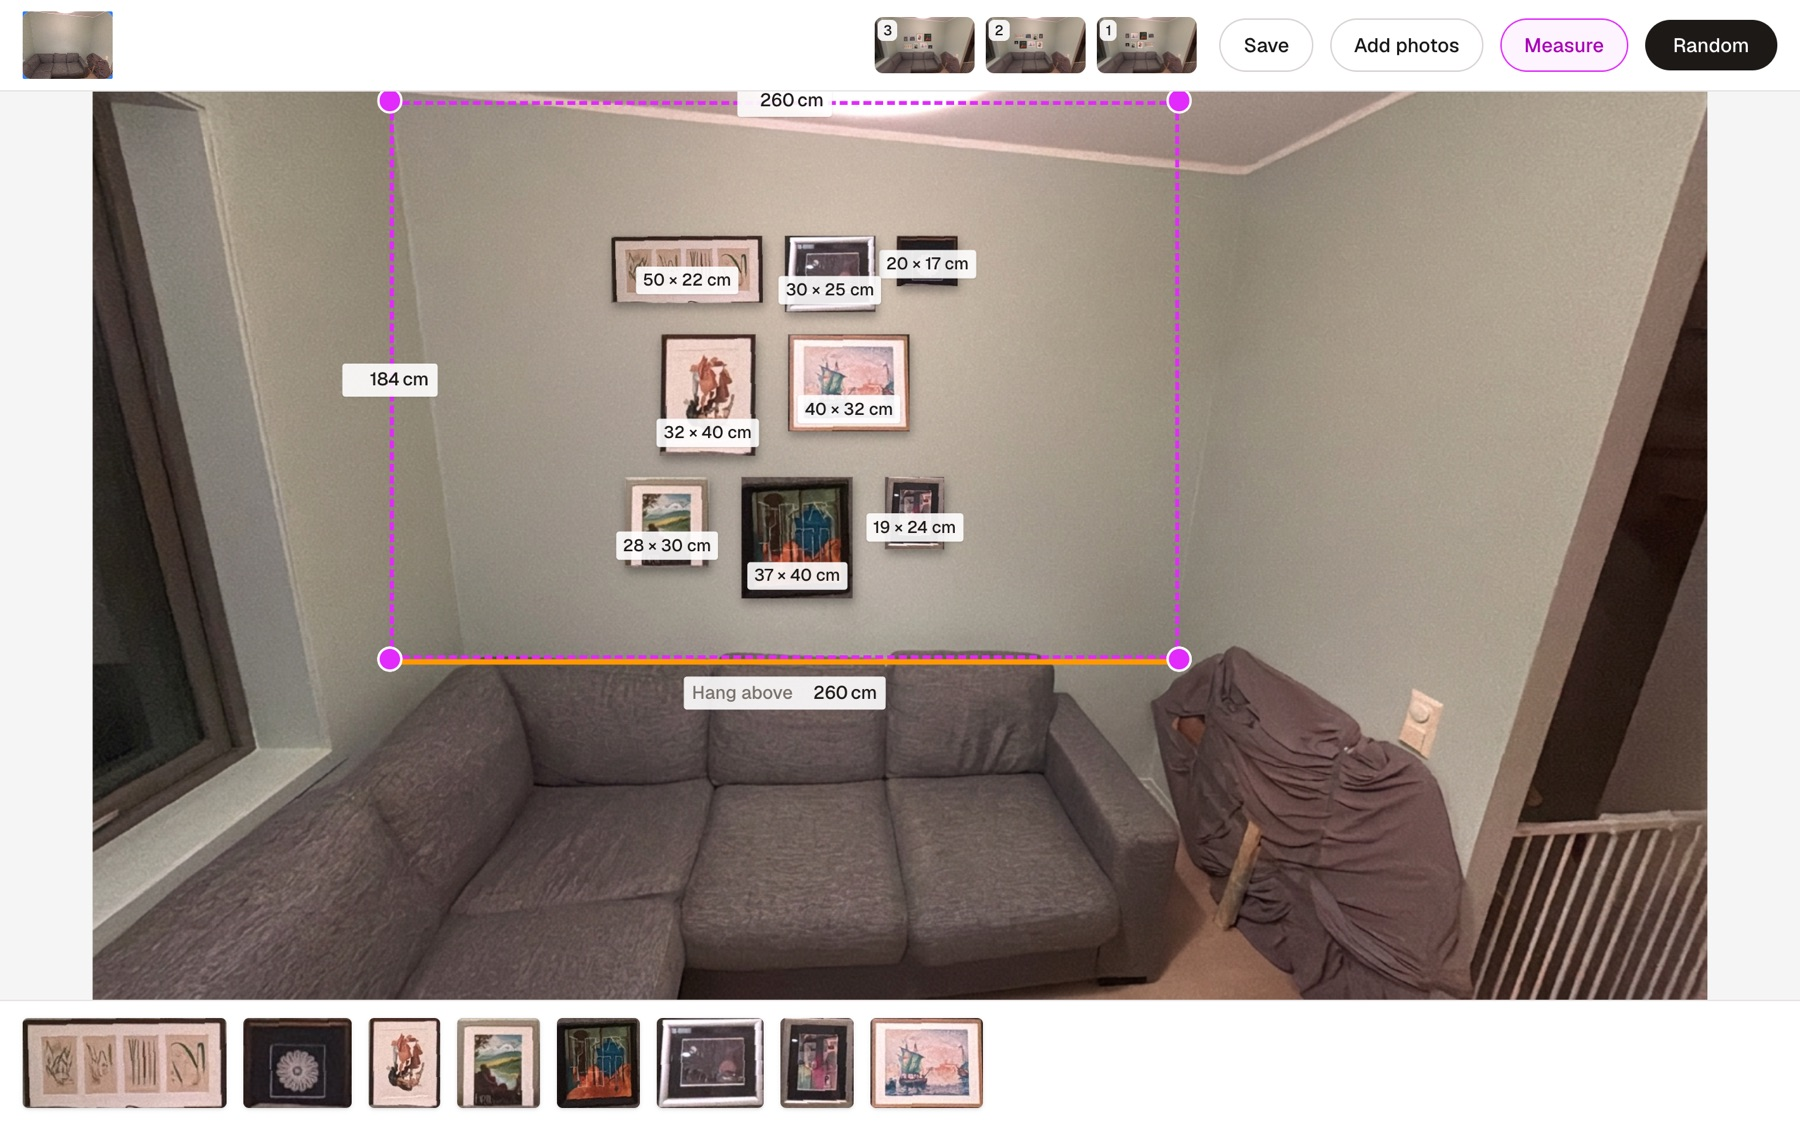
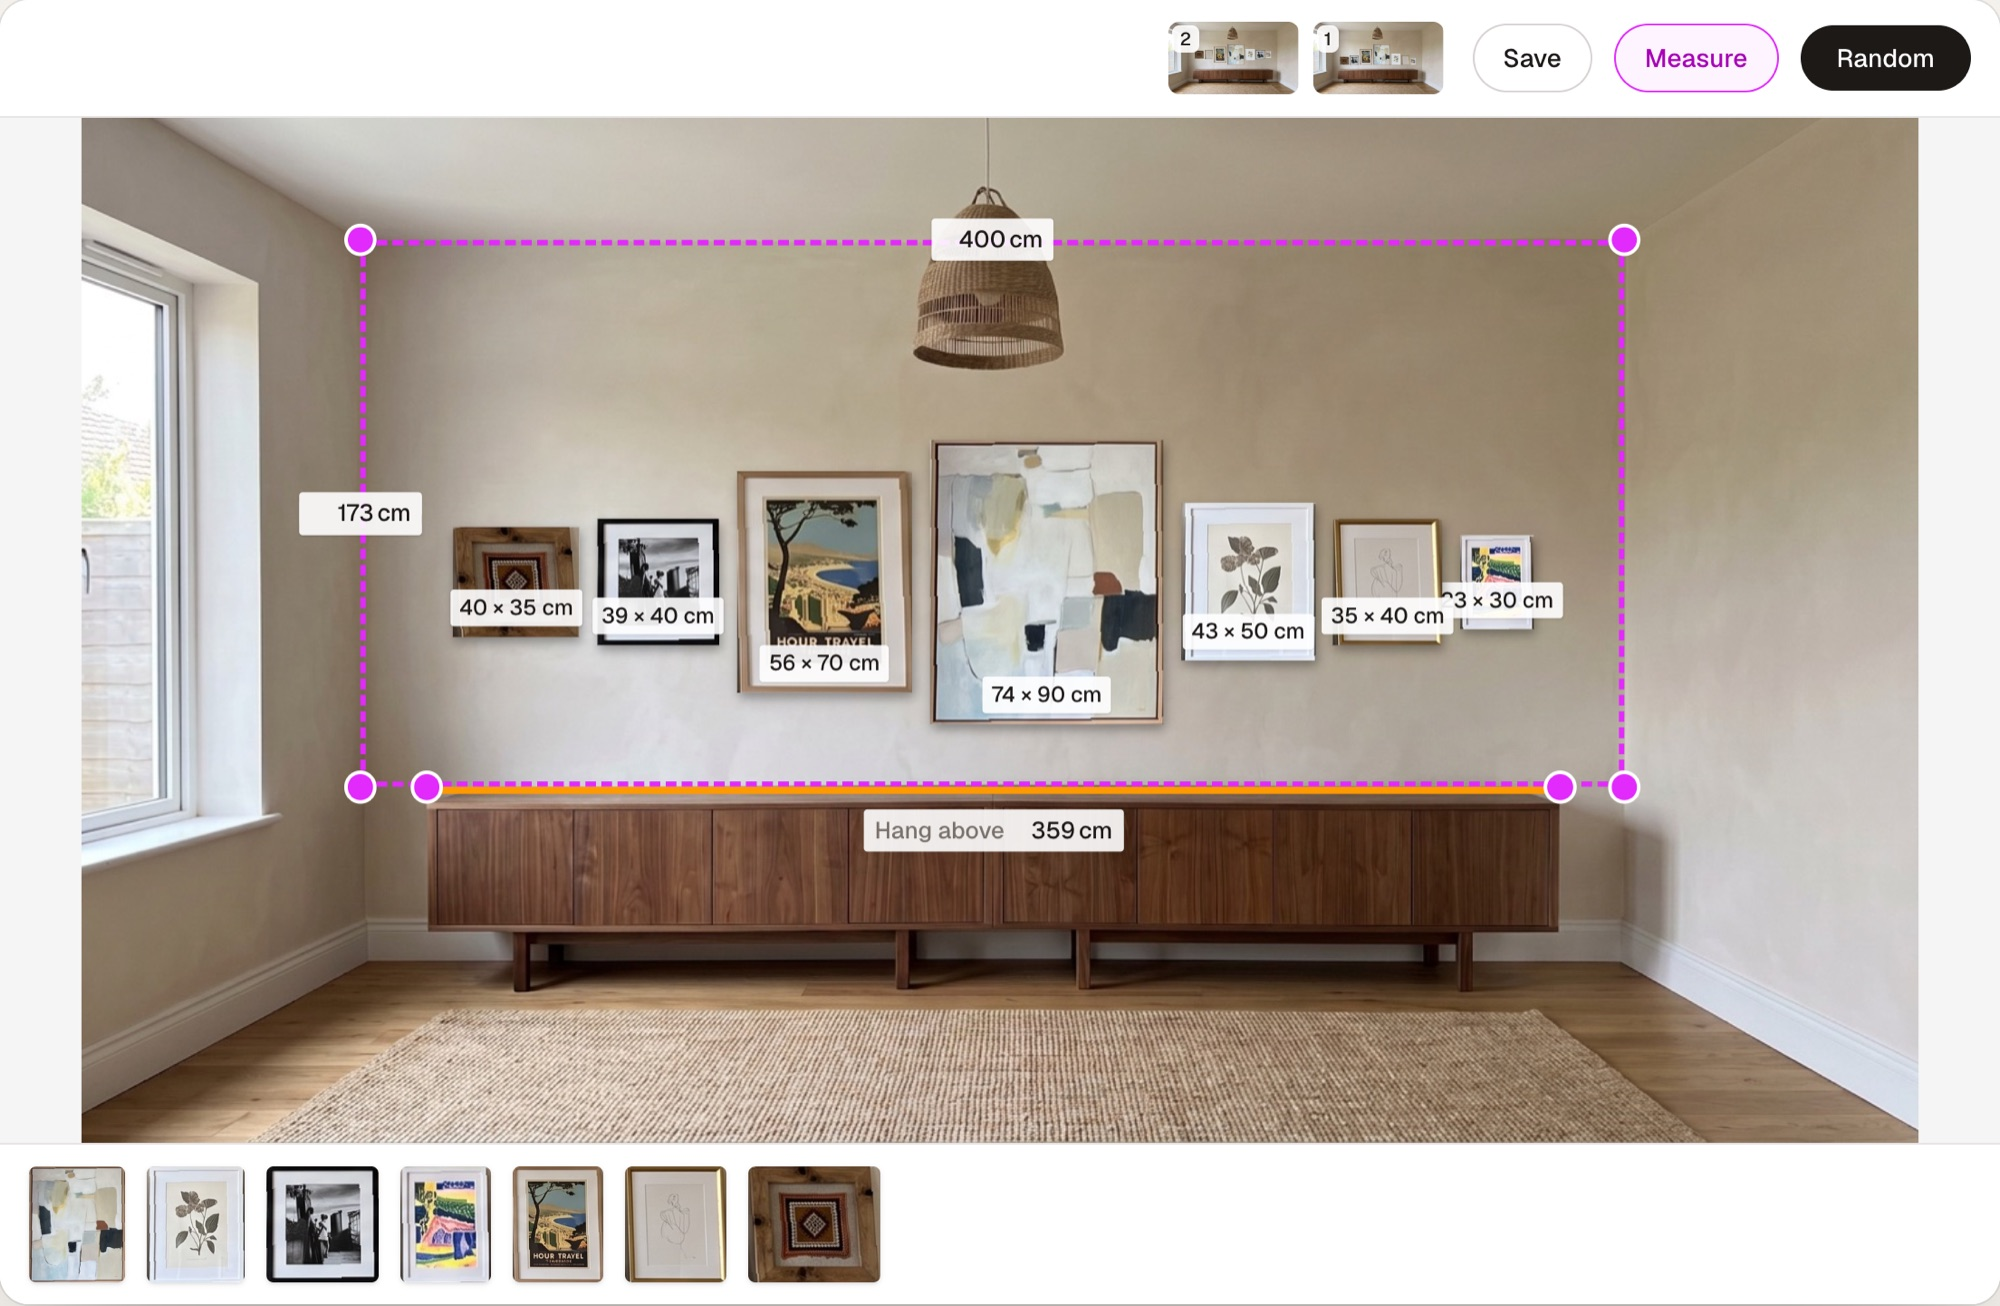
Show a staged example room on the landing page with a live demo
The landing page used photos of our own living room. A generated dining room
is now run through the real analysis and cleanup once and stored as the
example, and every image on the page comes from it. Visitors can try the
planner on it right below the hero without uploading.

Prices drop to $3 per wall, with a $10 whole-home pack for up to 10 walls.

diff --git a/src/app/page.tsx b/src/app/page.tsx
@@ -2,22 +2,24 @@ import Image from "next/image";
 import Link from "next/link";
 import type { ReactNode } from "react";
 import { BeforeAfter } from "@/components/landing/before-after";
+import { Planner } from "@/components/planner";
+import { example } from "@/assets/example/example";
 import after from "@/assets/landing/after.jpg";
 import appMeasure from "@/assets/landing/app-measure.jpg";
-import before from "@/assets/landing/before.jpg";
-import clean from "@/assets/landing/clean.jpg";
-import piece0 from "@/assets/landing/piece-0.jpg";
-import piece2 from "@/assets/landing/piece-2.jpg";
-import piece4 from "@/assets/landing/piece-4.jpg";
-import piece6 from "@/assets/landing/piece-6.jpg";
-import piece7 from "@/assets/landing/piece-7.jpg";
+import before from "@/assets/example/room.jpg";
+import clean from "@/assets/example/clean.jpg";
+import botanical from "@/assets/landing/piece-1.jpg";
+import photograph from "@/assets/landing/piece-2.jpg";
+import print from "@/assets/landing/piece-3.jpg";
+import poster from "@/assets/landing/piece-4.jpg";
+import textile from "@/assets/landing/piece-6.jpg";
 
 // Priced per wall, since most people plan one wall at a time. Prices are placeholders until payments are in place.
 const plans = [
   {
     name: "One wall",
-    price: "$9",
-    featured: true,
+    price: "$3",
+    featured: false,
     items: [
       "Photos of as much art as you like",
       "Unlimited layouts",
@@ -28,11 +30,11 @@ const plans = [
     ],
   },
   {
-    name: "Three walls",
-    price: "$19",
+    name: "Whole home",
+    price: "$10",
     tag: "Moving in?",
-    featured: false,
-    items: ["Everything in One wall, for three walls", "Use them whenever you like", "Move art between walls"],
+    featured: true,
+    items: ["Everything in One wall", "Up to 10 walls, whenever you like", "Move art between walls"],
   },
 ];
 
@@ -69,9 +71,9 @@ function Logo() {
 const steps = [
   {
     title: "Snap your wall",
-    body: "Art leaning on the sofa is fine. Add photos of art from anywhere else in the house.",
+    body: "Leaning on a sideboard or the floor is fine. Add photos of art from anywhere else in the house.",
     image: before,
-    alt: "Photo of a wall with art leaning on the sofa",
+    alt: "A dining room with framed art leaning on the sideboard",
   },
   {
     title: "We clear the wall",
@@ -83,7 +85,7 @@ const steps = [
     title: "Shuffle until it clicks",
     body: "A new layout with every tap. Save the ones you like and flip between them.",
     image: after,
-    alt: "The art arranged on the wall above the sofa",
+    alt: "The art arranged on the wall above the sideboard",
   },
 ];
 
@@ -127,6 +129,9 @@ export default function Landing() {
       <header className="mx-auto flex max-w-6xl items-center justify-between px-6 py-5">
         <Logo />
         <nav className="flex items-center gap-8 text-sm text-stone-600">
+          <a href="#try" className="hidden hover:text-stone-900 sm:block">
+            Try it
+          </a>
           <a href="#how" className="hidden hover:text-stone-900 sm:block">
             How it works
           </a>
@@ -150,10 +155,20 @@ export default function Landing() {
             </p>
             <div className="mt-9 flex flex-wrap items-center gap-x-5 gap-y-3">
               <Cta />
-              <span className="text-sm text-stone-500">{plans[0].price} per wall · No subscription</span>
+              <span className="text-sm text-stone-500">From {plans[0].price} per wall · No subscription</span>
             </div>
           </div>
           <BeforeAfter before={before} after={after} />
+        </section>
+
+        <section id="try" className="mx-auto max-w-6xl scroll-mt-6 px-6 pb-24">
+          <div className="flex flex-wrap items-end justify-between gap-x-6 gap-y-2">
+            <h2 className="font-serif text-4xl tracking-tight sm:text-5xl">Try it on our wall</h2>
+            <p className="text-stone-500">Press Random, drag the frames or turn on Measure.</p>
+          </div>
+          <div className="mt-8 h-[min(80vh,720px)] overflow-hidden rounded-2xl shadow-[0_30px_80px_-30px_rgba(41,37,36,0.5)] ring-1 ring-stone-900/10">
+            <Planner example={example} className="h-full" />
+          </div>
         </section>
 
         <section id="how" className="border-y border-stone-200 bg-white">
@@ -167,7 +182,7 @@ export default function Landing() {
                     {i === 1 && (
                       // The art found in the photo, collected in a tray like the planner's.
                       <div className="absolute inset-x-3 bottom-3 flex h-14 items-center justify-center gap-2 overflow-hidden rounded-lg bg-white/90 px-3 shadow-lg backdrop-blur">
-                        {[piece2, piece0, piece4, piece7, piece6].map((piece) => (
+                        {[botanical, photograph, print, poster, textile].map((piece) => (
                           <Image key={piece.src} src={piece} alt="" className="h-9 w-auto rounded-[2px] shadow ring-1 ring-black/5 sm:h-10" />
                         ))}
                       </div>
@@ -196,12 +211,7 @@ export default function Landing() {
               ))}
             </dl>
           </div>
-          <div className="overflow-hidden rounded-xl bg-white shadow-[0_30px_80px_-30px_rgba(41,37,36,0.5)] ring-1 ring-stone-900/10">
-            <div className="flex gap-1.5 border-b border-stone-200 px-4 py-3">
-              <span className="h-2.5 w-2.5 rounded-full bg-stone-300" />
-              <span className="h-2.5 w-2.5 rounded-full bg-stone-300" />
-              <span className="h-2.5 w-2.5 rounded-full bg-stone-300" />
-            </div>
+          <div className="overflow-hidden rounded-2xl shadow-[0_30px_80px_-30px_rgba(41,37,36,0.5)]">
             <Image src={appMeasure} alt="The planner showing a layout with every frame's size in centimetres" sizes="(min-width: 1024px) 60vw, 100vw" />
           </div>
         </section>
@@ -209,7 +219,7 @@ export default function Landing() {
         <section id="pricing" className="border-y border-stone-200 bg-white">
           <div className="mx-auto max-w-6xl px-6 py-24">
             <div className="text-center">
-              <h2 className="font-serif text-4xl tracking-tight sm:text-5xl">Pay once per wall</h2>
+              <h2 className="font-serif text-4xl tracking-tight sm:text-5xl">Pay once. Hang it right.</h2>
               <p className="mt-4 text-lg text-stone-600">No subscription. Nothing to cancel.</p>
             </div>
             <div className="mx-auto mt-14 grid max-w-4xl gap-6 md:grid-cols-2">

diff --git a/src/assets/example/example.ts b/src/assets/example/example.ts
@@ -1,0 +1,95 @@
+import type { Example } from "@/components/planner";
+import clean from "./clean.jpg";
+import room from "./room.jpg";
+
+// A generated room run through the real analysis and cleanup once, so the planner can be tried without uploading.
+export const example: Example = {
+  photo: room.src,
+  cleanUrl: clean.src,
+  analysis: {
+    art: [
+      {
+        label: "abstract painting",
+        corners: {
+          topLeft: { x: 214, y: 394 },
+          topRight: { x: 333, y: 396 },
+          bottomRight: { x: 330, y: 655 },
+          bottomLeft: { x: 212, y: 653 },
+        },
+        widthCm: 70,
+        heightCm: 90,
+      },
+      {
+        label: "botanical print",
+        corners: {
+          topLeft: { x: 341, y: 494 },
+          topRight: { x: 416, y: 495 },
+          bottomRight: { x: 414, y: 653 },
+          bottomLeft: { x: 339, y: 652 },
+        },
+        widthCm: 40,
+        heightCm: 50,
+      },
+      {
+        label: "black and white photograph",
+        corners: {
+          topLeft: { x: 426, y: 532 },
+          topRight: { x: 491, y: 532 },
+          bottomRight: { x: 490, y: 653 },
+          bottomLeft: { x: 425, y: 652 },
+        },
+        widthCm: 30,
+        heightCm: 40,
+      },
+      {
+        label: "colourful abstract print",
+        corners: {
+          topLeft: { x: 500, y: 549 },
+          topRight: { x: 545, y: 550 },
+          bottomRight: { x: 544, y: 653 },
+          bottomLeft: { x: 499, y: 652 },
+        },
+        widthCm: 21,
+        heightCm: 30,
+      },
+      {
+        label: "travel poster",
+        corners: {
+          topLeft: { x: 553, y: 483 },
+          topRight: { x: 628, y: 483 },
+          bottomRight: { x: 627, y: 653 },
+          bottomLeft: { x: 552, y: 653 },
+        },
+        widthCm: 50,
+        heightCm: 70,
+      },
+      {
+        label: "line drawing",
+        corners: {
+          topLeft: { x: 636, y: 524 },
+          topRight: { x: 698, y: 525 },
+          bottomRight: { x: 698, y: 653 },
+          bottomLeft: { x: 636, y: 653 },
+        },
+        widthCm: 30,
+        heightCm: 40,
+      },
+      {
+        label: "patterned textile art",
+        corners: {
+          topLeft: { x: 705, y: 538 },
+          topRight: { x: 778, y: 539 },
+          bottomRight: { x: 777, y: 653 },
+          bottomLeft: { x: 704, y: 653 },
+        },
+        widthCm: 40,
+        heightCm: 40,
+      },
+    ],
+    wall: {
+      surface: { left: 152, top: 119, right: 840, bottom: 653 },
+      surfaceWidthCm: 400,
+      hangAbove: { left: 188, right: 805, top: 653 },
+    },
+  },
+};

diff --git a/src/components/landing/before-after.tsx b/src/components/landing/before-after.tsx
@@ -32,9 +32,9 @@ export function BeforeAfter({ before, after }: { before: StaticImageData; after:
       className="relative overflow-hidden rounded-2xl shadow-[0_30px_80px_-20px_rgba(41,37,36,0.45)] ring-1 ring-stone-900/10 select-none"
       style={{ aspectRatio: `${before.width} / ${before.height}` }}
     >
-      <Image src={before} alt="A living room with framed art leaning on the sofa" fill priority sizes="(min-width: 1024px) 60vw, 100vw" className="object-cover" />
+      <Image src={before} alt="A room with framed art leaning against the wall" fill priority sizes="(min-width: 1024px) 60vw, 100vw" className="object-cover" />
       <div className="absolute inset-0" style={{ clipPath: `inset(0 0 0 ${split}%)` }}>
-        <Image src={after} alt="The same room with the art arranged on the wall above the sofa" fill priority sizes="(min-width: 1024px) 60vw, 100vw" className="object-cover" />
+        <Image src={after} alt="The same room with the art arranged on the wall" fill priority sizes="(min-width: 1024px) 60vw, 100vw" className="object-cover" />
       </div>
 
       <span className="pointer-events-none absolute left-4 top-4 rounded-full bg-stone-900/70 px-3 py-1 text-xs font-medium text-white backdrop-blur">
